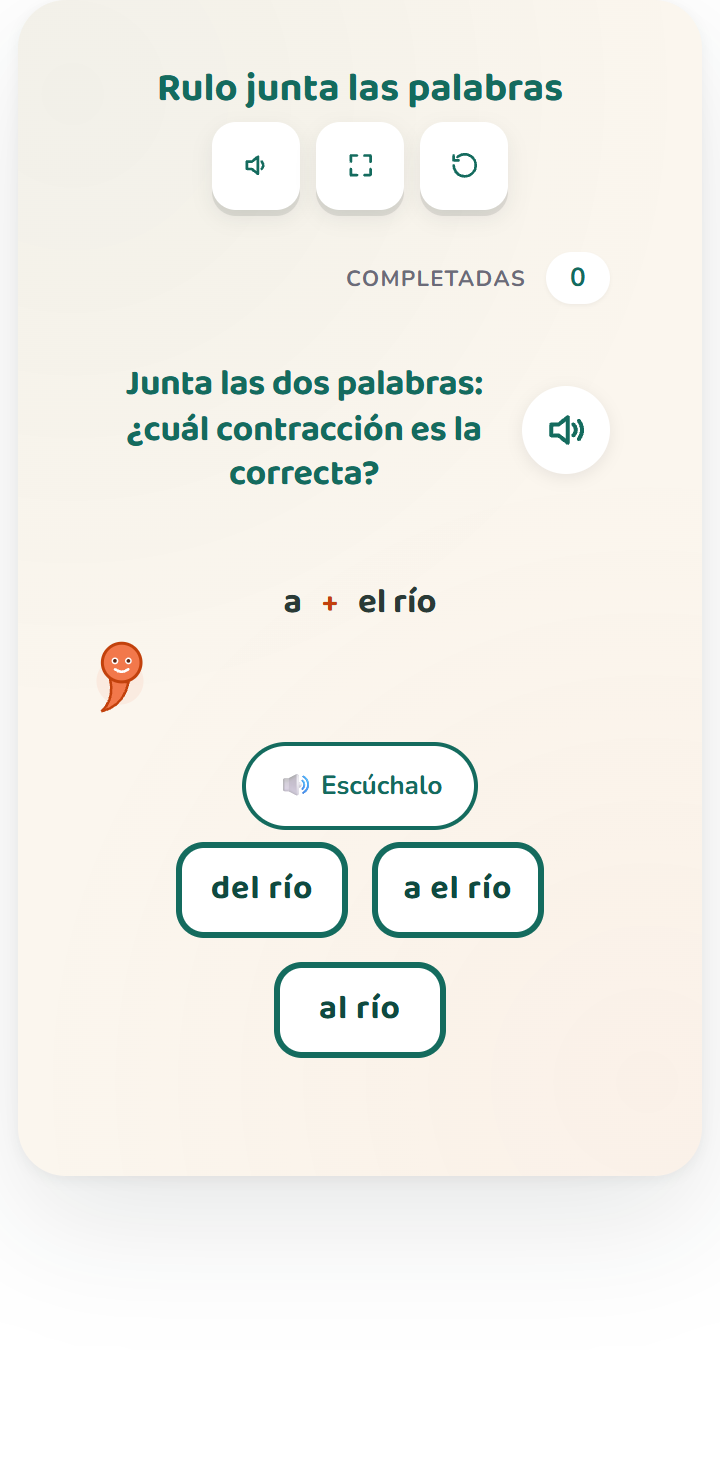
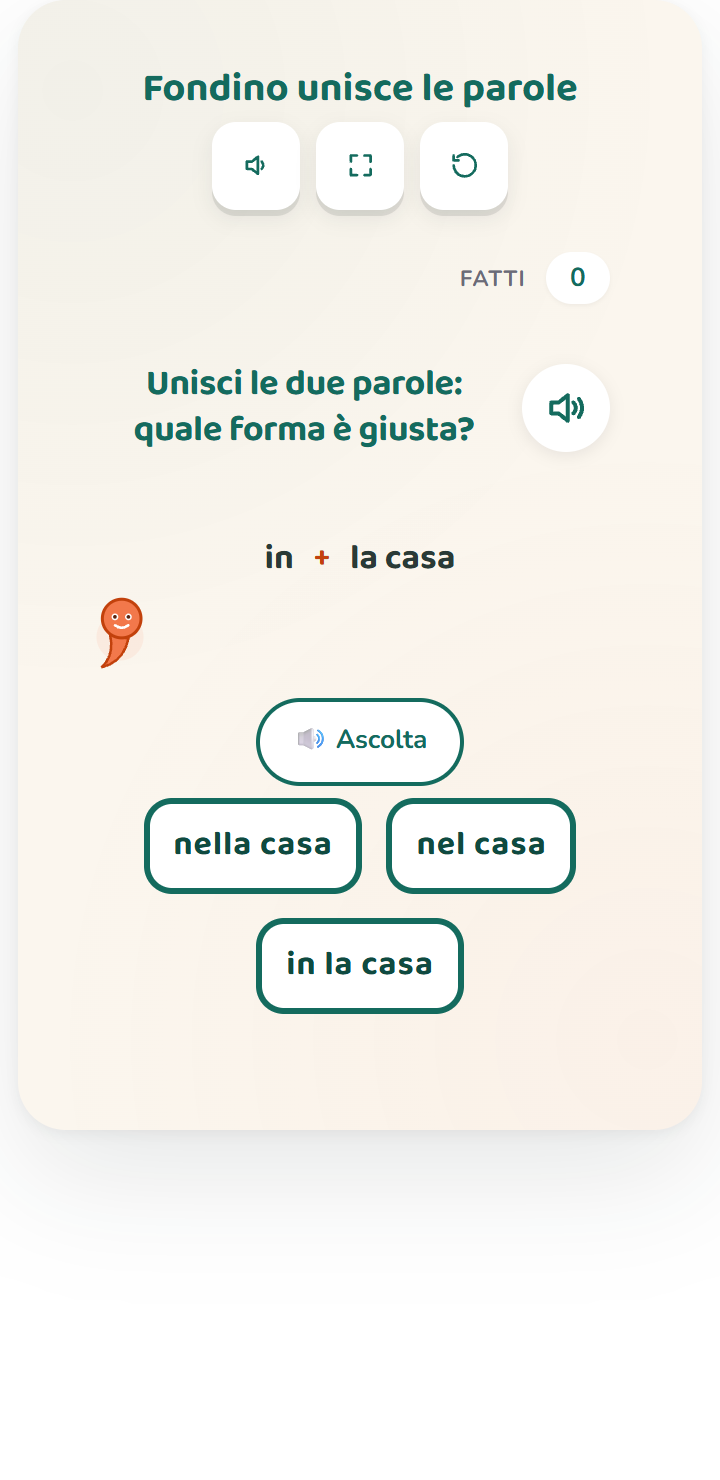
[FEATURE][I18N][IT] contraction #100 — Fondino unisce le parole (preposizioni articolate / Riflessione linguistica, classe terza)
Italian fan-out of the L.2.2.c contraction activity, rebuilt for the
Indicazioni nazionali as LE PREPOSIZIONI ARTICOLATE (in+il→nel, di+il→del,
a+l'→all'…). Clean fan through the generic fusion path: FUSION_LANGS += it;
strings.it (title «Fondino unisce le parole» + instruction + q) + L.it block
(q/win/winNote/hear/nudge, apostrophe-free) + render-recap it branch + chip-
aria it (read-as-is); roundsL10n.it = 8 rounds {word1,word2,fusion,foils[2]}
band-graded (il-fusions → fem+lo/l' selection → one gentle plural dei), all
fusions grammatically verified, foil1=uncontracted + foil2=real-but-wrong;
slug/page_title/page_intro.it; it.json prose (159 activities); page.tsx GRADE
it:'3' + wrapper 9.551.

⭐ GRADE = classe TERZA (principled divergence from es/pt=2, aligns de=3):
Italian preposizioni articolate is a ~35-cell system (5 prep × 7 articles) vs
Spanish's 2 (al/del); prep. SEMPLICI = classe 2, ARTICOLATE = classe 3.
⭐ STRAND «Riflessione linguistica» via AUTO-MAP (Language.it) — NO route
override, strand-names.ts untouched. Mascot «Fondino» (from «fondere»).

#99 hattie-whose-is-it DEFERRED (design-not-fan, operator-ratified): the
possessive-marker core is English-apostrophe-hardcoded, de/pt each rebuilt
the grammar, es/fr deferred, and Italian's proper-name possessive «di Anna»
is invariant → no 3-form choice. Matches es/fr + the #87 precedent. NO code.

0 lines to contraction-core.js / lcs-shell.* / Direction-A CSS / strand-names.ts.
[…]

diff --git a/frontend/app/[locale]/activities/[slug]/page.tsx b/frontend/app/[locale]/activities/[slug]/page.tsx
@@ -52,7 +52,7 @@ const GRADE_OVERRIDE: Record<string, Record<string, string>> = {
   'penny-alphabet-trace.letter-formation.l-k-1-a': { de: '1', es: '1', pt: '1' }, // pt 1º ano — formação sistemática do alfabeto convencional (26+26, direção correta) = 1º alfabetização (BNCC "Conhecimento do alfabeto do português do Brasil" / "Construção do sistema alfabético", EF01LP04/EF01LP10, o traçado como correlato grafomotor); ed. infantil faz grafismo de readiness (traços livres + o próprio nome), NÃO a formação deliberada das 52 letras; content-drives-higher = de/es/fr. // es 1.º: el trazo sistemático de las 26 letras convencionales (ambos casos, dirección correcta) = NEM Fase 3 (1.º, apropiación del sistema de escritura convencional); preescolar (Fase 2) es grafomotricidad de readiness (trazos libres + el propio nombre), NO la formación deliberada del alfabeto; content-drives-higher (= de Klasse 1 / fr CP); en Kindergarten // Klasse 1 — Erstschreiben: formgerechtes Nachspuren der Druckbuchstaben = Kern des Anfangsunterrichts (US L.K.1.a; K-cluster → Klasse 1)
   'rhyme-shop.rhyme.rf-k-2-a': { de: '1', es: 'PK', pt: '1' },           // pt 1º ano — BNCC "Consciência fonológica e fonêmica" (eixo Análise linguística/semiótica, Alfabetização) filed at 1º (EF01LP07/08); rima = tarefa canônica. NÃO segue o es='PK' (aquele foi Mexico-system-specific: Kindergarten≠escola lá); no Brasil a alfabetização formal começa no 1º EF + o critério de acerto (judge/pick/odd) torna-a habilidade avaliável de alfabetização, não experiência de ed. infantil. = de. // es Preescolar ('PK'→«Preescolar»): la conciencia fonológica (rimas/sílabas/sonidos) es la firma del trabajo de Lenguajes en preescolar SEP/NEM (Fase 2); un niño de 5 años = 3.º preescolar; rebuild-not-translate la coloca donde vive en México = preescolar, NO el push-up de/fr a Klasse 1/CP (allá el Kindergarten no es escuela); precedente comparison-creek/nesting-pots es:'PK' // Klasse 1 — Reime/phonologische Bewusstheit = Kernkompetenz des Anfangsunterrichts (US RF.K.2.a; K-cluster → Klasse 1)
   'sock-and-shadow.puppet-speak.sl-k-6': { de: '1', fr: '1', es: '1', pt: '1' }, // pt 1º ano — BNCC eixo Oralidade, EF15LP09 (expressar-se com clareza, preocupando-se em ser compreendido pelo interlocutor); comunicação referencial COM critério de sucesso (vago→ambíguo / excessivo→sobrecarga) acima da oralidade aberta da ed. infantil → 1º; = de/es/fr. // es 1.º: comunicación referencial con criterio de éxito (SEP/NEM Fase 3, campo Lenguajes, componente Oralidad) — por encima de la oralidad abierta de preescolar; paridad DE Klasse 1 / FR CP // Klasse 1 — KMK Sprechen und Zuhören: verständlich/adressatenbezogen beschreiben (US SL.K.6; K-cluster → Klasse 1). FR CP: décrire un objet avec précision (taille/couleur/place) pour se faire comprendre = production orale claire → CP (parité DE Klasse 1; précédent sunny-side-diner L.K.1.f production orale → CP)
-  'contraction.apostrophe.l-2-2-c': { de: '3', pt: '2' },                // pt REBUILT (apóstrofo não existe em contração pt) como contração OBRIGATÓRIA prep+artigo a→ao/à e em→no/na (NUNCA de→do/da, que é #99 posse) = BNCC "Construção do sistema alfabético e da ortografia" 2º ano; = es 2º / native Grade 2. // Präposition-Artikel-Verschmelzung (in dem → im) — bewusste Analyse setzt Präposition+Artikel als Wortarten voraus (Klasse-3-Lehrplan) → DE Klasse 3 (en Grade 2)
+  'contraction.apostrophe.l-2-2-c': { de: '3', pt: '2', it: '3' },                // IT classe TERZA (divergenza principiata da es/pt=2, allineata a de=3): le preposizioni articolate italiane = sistema ~35 celle (5 prep × 7 forme d'articolo) vs le 2 contrazioni obbligatorie spagnole (al/del); nella prassi italiana le prep. SEMPLICI sono classe 2, le prep. ARTICOLATE classe 3 (presuppone il/lo/la/l'/i/gli/le sicuri); Indicazioni «Elementi di grammatica esplicita» al termine della classe terza. STRAND «Riflessione linguistica» via auto-map (Language.it), NESSUN override. // pt REBUILT (apóstrofo não existe em contração pt) como contração OBRIGATÓRIA prep+artigo a→ao/à e em→no/na (NUNCA de→do/da, que é #99 posse) = BNCC "Construção do sistema alfabético e da ortografia" 2º ano; = es 2º / native Grade 2. // Präposition-Artikel-Verschmelzung (in dem → im) — bewusste Analyse setzt Präposition+Artikel als Wortarten voraus (Klasse-3-Lehrplan) → DE Klasse 3 (en Grade 2)
   'hattie-whose-is-it.possessive.l-1-1-b': { de: '3', pt: '2' },         // pt REBUILT (apóstrofo/genitivo-s não existem em pt) como concordância de gênero da contração do/da: "de quem é? da Ana / do Téo" = BNCC Análise linguística/semiótica 2º ano (concordância de gênero + posse via "de", não "em"); grade pela habilidade pt (1º cedo demais), NÃO a Klasse 3 do de (reframe ortográfico). // Namen-Genitiv OHNE Apostroph + Deppenapostroph-Erkennung = Rechtschreib-Regel/Apostroph-Bewusstheit → DE Klasse 3 (en Grade 1)
   'otto-picture-book.which-picture.rl-k-7': { de: '1', es: '1', pt: '1', it: '1' }, // IT classe prima (= de/es/pt): corrispondenza testo↔immagine di base (entrambi gli stimoli visibili/udibili → riconoscimento concreto, non la ricostruzione-a-memoria del #97 classe 2); àncora Lettura cl.1 «Legge testi… anche con l'ausilio delle illustrazioni». // pt 1º ano — estabelecer relação entre o texto verbal e a ilustração que o representa (BNCC alfabetização, correspondência concreta de estímulo presente: frase visível + 4 imagens visíveis); mais simples que o reconto-de-memória do #97 (2º) → não pode ranquear acima; = es/de. // Bild-Text-Bezug: vorgelesenen Satz dem passenden Bild einer Bildergeschichte zuordnen (bildgestützt, gehört-nicht-gelesen) = Klasse-1-Kerngeschäft; en stays Kindergarten (K-cluster K-label) // es 1.º: relacionar oración e imagen = reconocimiento concreto (SEP/NEM Fase 3, PDA «relaciona el texto con las ilustraciones»); mismo peldaño que picture-story #82/story-spine #92; paridad DE Klasse 1
   'two-tales.compare.rl-1-9': { de: '2', fr: '2', es: '2', pt: '2', it: '2' },             // IT classe seconda (= de/fr/es/pt): comparare DUE testi narrativi (uguale nelle due / in una sola, set-logic) è operazione INTERTESTUALE; la classe 1 (Lettura) si ferma a comprendere UN testo breve; traguardo cl.2 «Legge testi narrativi… cogliendo… le relazioni tra gli elementi». native '1' NON auto-mappa a classe 1. Ancora di macchina = CCSS RL.1.9. // PT 2º ano (= de/fr/es): na BNCC ler+compreender UM texto curto é do 1º; COMPARAR DUAS histórias (semelhanças e diferenças, relacionar experiências de personagens de textos distintos) é meta-compreensão intertextual = 2º (banda EF02LP; carga de dupla-leitura + set-logic igual-nas-duas vs só-numa). Âncora de máquina = CCSS RL.1.9. // zwei erzählende Geschichtenvergleichen (Gemeinsamkeiten/Unterschiede, same-vs-only-one set-logic) = intertextueller Textvergleich → DE Klasse 2 (en Grade 1). FR CE1: comparer/mettre-en-relation DEUX textes LUS = attendu CE1 (le CP = décodage + comprendre UN texte court); native '1' does NOT auto-map to CP; un cran au-dessus de willow #45 (RL.K.9, GS, ENTENDU)
@@ -556,7 +556,7 @@ export default async function ActivityPage({ params }: { params: PageParams }) {
   // applied here to the iframe-loaded wrapper URL (the only un-busted
   // link in the activity-page → mini-tool chain). The wrapper reads
   // only `activity` / `lang` / `embed` params; `v` is harmless to it.
-  const ACTIVITY_WRAPPER_VERSION = '9.550';
+  const ACTIVITY_WRAPPER_VERSION = '9.551';
 
   const iframeSrc =
     `/mini-tools/${row.tool}.html?v=${ACTIVITY_WRAPPER_VERSION}` +

diff --git a/mini tools/contraction-activity.js b/mini tools/contraction-activity.js
@@ -49,10 +49,17 @@
       win: 'Isso! {note}', winNote: 'As duas palavras viraram uma só — sem apóstrofo, é assim que se junta no português!',
       hear: '🔊 Ouvir',
       nudge: 'Quase! Junte a preposição com o artigo numa palavra só e tente de novo.'
+    },
+    /* it. Preposizioni articolate. apostrophe-free JS; §A.13.54 win praises the fusion (Due parole → una), never the child. */
+    it: {
+      q: 'Unisci le due parole: quale forma è giusta?',
+      win: 'Sì! {note}', winNote: 'Due parole diventano una sola!',
+      hear: '🔊 Ascolta',
+      nudge: 'Quasi! Unisci la preposizione con il suo articolo in una parola sola.'
     }
   };
   /* Locales whose chips are the free [fusion, ...foils] pick (de Verschmelzung / fr élision / es al-del) — NOT the en apostrophe-insertion core path. */
-  var FUSION_LANGS = { de: 1, fr: 1, es: 1, pt: 1 };
+  var FUSION_LANGS = { de: 1, fr: 1, es: 1, pt: 1, it: 1 };
   function txt(k, a) { var s = (L[LANG] && L[LANG][k]) || L.en[k] || k; return String(s).replace(/\{(\w+)\}/g, function (m, key) { return (a && key in a) ? a[key] : m; }); }
   function el(tag, cls) { var n = document.createElement(tag); if (cls) n.className = cls; return n; }
 
@@ -83,9 +90,9 @@
   var ContractionActivity = {
     id: 'contraction-activity',
     strings: {
-      title: { en: "Nib's Apostrophe Seat", de: 'Zwirbels Kurzform-Wirbel', fr: 'La place de Nib', es: 'Rulo junta las palabras', pt: 'Juntinho junta as palavras' },
-      instruction: { en: 'Pick the contraction with the apostrophe in exactly the right spot!', de: 'Tippe die richtige Kurzform an!', fr: "Tape le mot où l'apostrophe est à la bonne place !", es: 'Une las dos palabras y toca la contracción bien escrita.', pt: 'Junte as duas palavras e toque na contração escrita do jeito certo.' },
-      q: { en: '{q}', de: '{q}', fr: '{q}', es: '{q}' }
+      title: { en: "Nib's Apostrophe Seat", de: 'Zwirbels Kurzform-Wirbel', fr: 'La place de Nib', es: 'Rulo junta las palabras', pt: 'Juntinho junta as palavras', it: 'Fondino unisce le parole' },
+      instruction: { en: 'Pick the contraction with the apostrophe in exactly the right spot!', de: 'Tippe die richtige Kurzform an!', fr: "Tape le mot où l'apostrophe est à la bonne place !", es: 'Une las dos palabras y toca la contracción bien escrita.', pt: 'Junte as duas palavras e toque na contração escrita do jeito certo.', it: 'Unisci le due parole e tocca la forma giusta.' },
+      q: { en: '{q}', de: '{q}', fr: '{q}', es: '{q}', it: '{q}' }
     },
 
     init: function (api) {
@@ -200,6 +207,7 @@
           : LANG === 'fr' ? (round.word1 + ' ' + round.word2 + ' devient ' + round.fusion + '.')
           : LANG === 'es' ? (round.word1 + ' ' + round.word2 + ' nos da ' + round.fusion + '.')
           : LANG === 'pt' ? (round.word1 + ' ' + round.word2 + ' vira ' + round.fusion + '.')
+          : LANG === 'it' ? (round.word1 + ' ' + round.word2 + ' diventa ' + round.fusion + '.')
           : (round.word1 + ' ' + round.word2 + ' makes a contraction.'));
         if (global.LCSAudio && global.LCSAudio.speak) { try { global.LCSAudio.speak({ type: 'ui', text: t, lang: (LANG === 'pt' ? 'pt-BR' : LANG), rate: 0.92 }); } catch (e) { } }
       });
@@ -220,7 +228,7 @@
         b.textContent = str;
         /* en: spell out (apostrophe position is the point); de: the bare short form;
            fr: name the apostrophe/space/joined-ness (l'ami & lami are homophonous /lami/ — the WRITTEN mark is the point). */
-        b.setAttribute('aria-label', LANG === 'fr' ? frAria(str) : (LANG === 'de' || LANG === 'es' || LANG === 'pt') ? str : str.split('').join(' '));
+        b.setAttribute('aria-label', LANG === 'fr' ? frAria(str) : (LANG === 'de' || LANG === 'es' || LANG === 'pt' || LANG === 'it') ? str : str.split('').join(' '));
         b.addEventListener('click', function () {
           if (self._resolved || self._nonConf[str] || self._token !== tok) return;
           if (FUSION_LANGS[LANG] ? deIsAnswer(round, str) : Core.isAnswer(round, str)) { self._lit = str; self._resolve(); }

diff --git a/mini tools/contraction-activity.html b/mini tools/contraction-activity.html
@@ -17,7 +17,7 @@
        NOTE: bump ?v=N on EVERY change to contraction-activity.js / -core.js (§A.13.42). -->
   <script src="/mini-tools/lcs-shell.js?v=5"></script>
   <script src="/mini-tools/contraction-core.js?v=1"></script>
-  <script src="/mini-tools/contraction-activity.js?v=5"></script>
+  <script src="/mini-tools/contraction-activity.js?v=6"></script>
   <script>
     LCS.mount(ContractionActivity, { mount: '#lcs-root' });
   </script>
